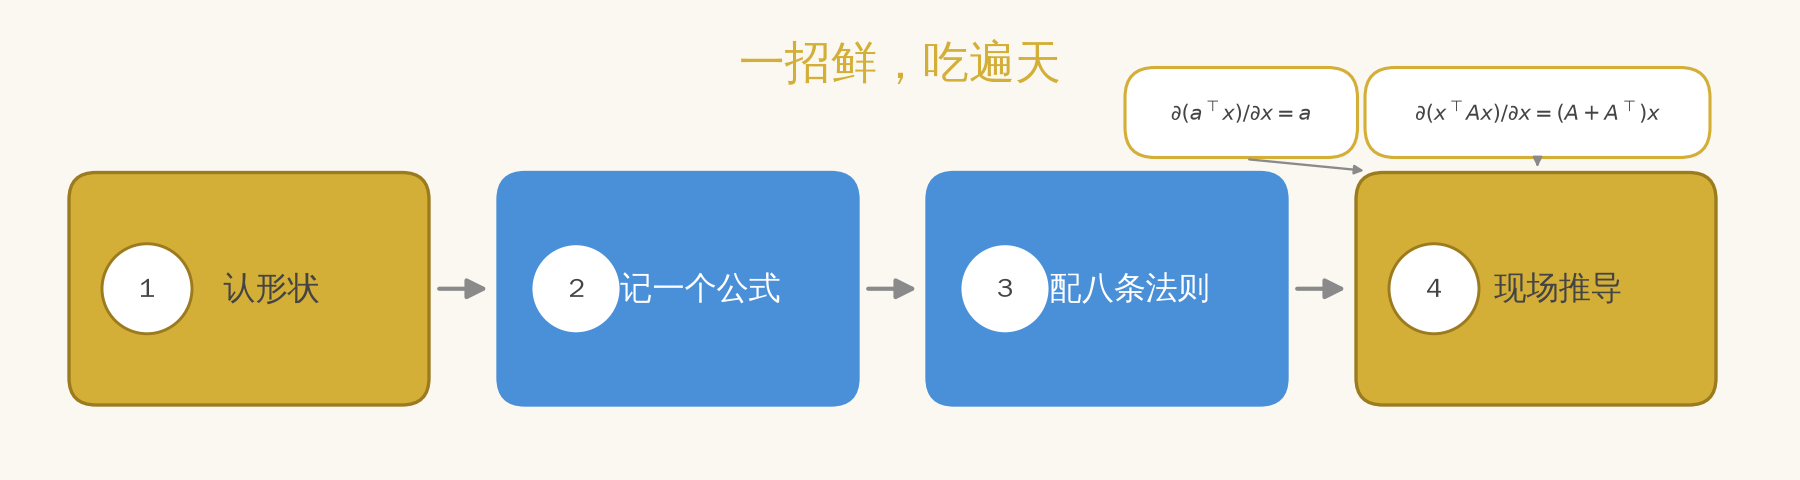
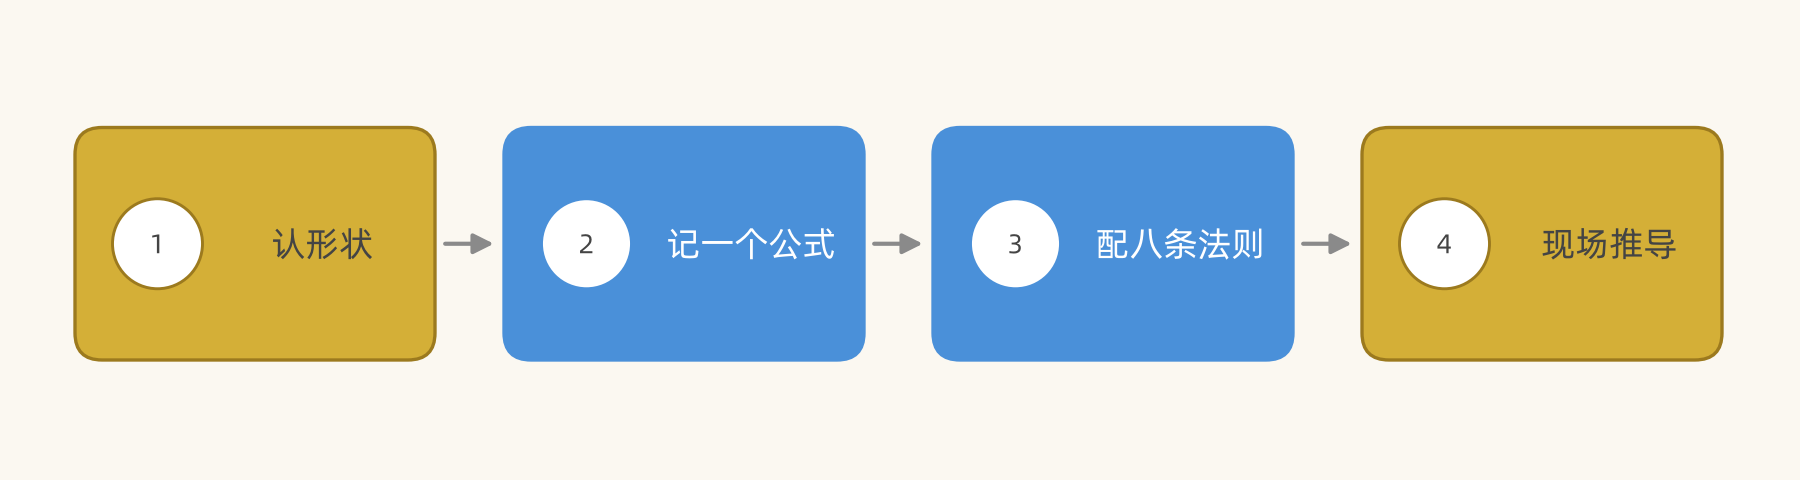
矩阵求导速查手册：图文优化与配图精简
- 正文图文并茂：补开场点题段、每节「怎么记」金句、幽默图注（写在 alt text）
- 配图换用 Alibaba PuHuiTi 字体，图 1/2/3/5 元素居中对称、字号分级
- 删除微分定义下的三步法流程图 fig-flow.png，正文改句号收尾
- fig-trace.png 恢复并去掉底部注脚卡片，矩阵盒垂直居中
- fig-roadmap.png 去掉③④公式气泡与「一招鲜，吃遍天」标题，四盒居中
- 文章标题改为「矩阵求导速查手册」

Changed region(s): [[0.0311, 0.125, 0.9644, 0.875], [0.4044, 0.0625, 0.5911, 0.1875]]

diff --git a/source/_posts/数学/矩阵求导速查手册.md b/source/_posts/数学/矩阵求导速查手册.md
@@ -7,13 +7,23 @@ katex: true
 cover: cover.jpg
 ---
 
-# 矩阵分析
+矩阵求导让人头大，不是因为它难，而是因为它把「求导」从一件事变成了一排选择题：函数是横的还是竖的？变元是方的还是长的？导数摆成行还是列？选项一多，人就忍不住背公式，一背就串台——今天记住 $\frac{\partial \boldsymbol{x}^T\boldsymbol{A}\boldsymbol{x}}{\partial \boldsymbol{x}}=(\boldsymbol{A}+\boldsymbol{A}^T)\boldsymbol{x}$，明天在考场上又忘了它跟 $\boldsymbol{A}^T\boldsymbol{x}$ 谁是谁。
+
+记住一个主角公式，配上八条小法则，所有常见导数都能现场算出来。全文各节独立可查，哪儿不会翻哪儿：
+
+![阅读路线图：认形状 → 记公式 → 配法则 → 现场推导，四步走完全文，全程零背诵](fig-roadmap.png)
 
 ## 函数
 
 ### 定义
 
 函数：$function(input)$，$function$可以为标量$f$、向量$\boldsymbol{f}$或矩阵$\boldsymbol{F}$，$input$可以为标量$x$、向量$\boldsymbol{x}$或矩阵$\boldsymbol{X}$，三者可任意组合。
+
+先认形状，再谈求导。函数（标量/向量/矩阵）× 变元（标量/向量/矩阵），一共九种组合，全在下面这张九宫格里——九格必有你的一格：
+
+![函数九宫格：标量/向量/矩阵的函数遇上标量/向量/矩阵的变元，先对号入座再动手](fig-grid.png)
+
+> 怎么记：函数是横是竖、变元是方是长，先对号入座找到自己那一格，后面的导数才有得摆。
 
 ### 实值标量函数$f$
 
@@ -172,6 +182,12 @@ $$
 ### 定义
 
 导数：函数$function$中每个函数$f$对变元元素$x$求偏导，矩阵/向量形式。
+
+同一份导数，摆在哪儿有讲究：横着摆叫行偏导（$\mathrm{D}$），竖着摆叫列梯度（$\nabla$），二者互为转置——像同一个人，正着拍一张、侧着拍一张，人还是那个人：
+
+![同一份偏导两种摆法：一横一竖互为转置，姿势不同，内容一致](fig-layout.png)
+
+> 怎么记：行偏导与列梯度互为转置，横摆竖摆都没错——但查别人的公式前先看清楚对方摆的是哪种。
 
 ### 实值标量函数$f$
 
@@ -438,6 +454,8 @@ $$
 
 微分：函数$function$中函数$f$对每个变元元素$x$求微分之和，矩阵/向量形式。
 
+微分法是个三步走的流程：先微分，再凑成 $\mathrm{tr}(\boldsymbol{G}\cdot{\rm{d}}\boldsymbol{X})$ 的造型，最后从括号里把 $\boldsymbol{G}$ 读出来——它就是行偏导，比抢优惠券还快。
+
 向量变元微分算子，其中$\boldsymbol{x}=(x_1, x_2, \cdots, x_n)^T$。
 $$
 {\rm{d}}\boldsymbol{x}=
@@ -487,6 +505,12 @@ $$
 {\rm{d}}f(\boldsymbol{X})=
 {\rm{tr}}(\frac{\partial{f(\boldsymbol{X})}}{\partial{\boldsymbol{X}_{m\times n}^T}}\cdot {\rm{d}}\boldsymbol{X})
 $$
+
+这里藏着本文的主角公式。为什么标量能装进 $\mathrm{tr}$？因为 $\frac{\partial f}{\partial \boldsymbol{X}^T}\cdot{\rm{d}}\boldsymbol{X}$ 是 $1\times mn$ 乘 $mn\times 1$，乘出来是 $1\times 1$——一个 $1\times 1$ 矩阵的迹就是它自己，$\mathrm{tr}$ 只是把壳剥掉。它还有洁癖，看都不看主对角线以外的元素：
+
+![tr 有洁癖：一个矩阵那么多元素，它只认主对角线上的那几位](fig-trace.png)
+
+> 怎么记：微分 → 凑迹 → 读 G。括号里站着的那位 $\boldsymbol{G}$ 就是行偏导，转置一下就是列梯度。
 
 
 
@@ -616,6 +640,8 @@ $$
 
 ## 微分法则
 
+八条法则护体，走遍天下不怕：常数不动、线性拆开、乘法分家、转置翻面、夹层饼只微中间、行列式扯出迹、逆矩阵两边夹、迹跟着微分走。
+
 ### 常数
 
 $$
@@ -644,6 +670,10 @@ $$
 $$
 
 ### 夹层饼
+
+矩阵微分界的三明治：上下层面包（$\boldsymbol{A}$ 和 $\boldsymbol{B}$）纹丝不动，只微分中间的肉（$\boldsymbol{X}$）：
+
+![夹层饼法则：上下层面包 A、B 不动，只微分中间那块肉 X](fig-sandwich.png)
 
 $$
 {\rm{d}}(\boldsymbol{A}_{p\times m}\boldsymbol{X}\boldsymbol{B}_{n\times q})=
@@ -680,6 +710,8 @@ $$
 
 ## 常见导数
 
+高频款直接查，冷门款现场推——其实用三步法推，比查表还快，还能避免记错：
+
 $$
 \frac{\partial{(\boldsymbol{A}^T\boldsymbol{x}+\boldsymbol{b})}}{\partial{\boldsymbol{x}}}=\boldsymbol{A}
 $$
@@ -712,4 +744,4 @@ $$
 
 ③ 完整双栏速查表：[Matrix calculus（Wikipedia）](https://en.wikipedia.org/wiki/Matrix_calculus)。
 
-回到开头那句话：矩阵求导 = 认形状（§1）→ 记一个公式（§3）→ 配八条法则（§4）→ 现场推导（§5）。九宫格里认形状，主角公式里读导数，八条法宝拆函数，附录 A 兜底摆法约定。一招鲜，吃遍天——下次再遇到矩阵求导，先别背，推。
+回到开头那句话：矩阵求导 = 认形状 → 记一个公式 → 配八条法则 → 现场推导。九宫格里认形状，主角公式里读导数，八条法宝拆函数，附录 A 兜底摆法约定。
